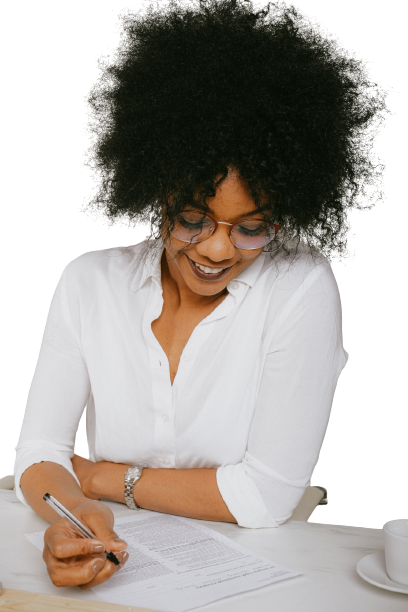
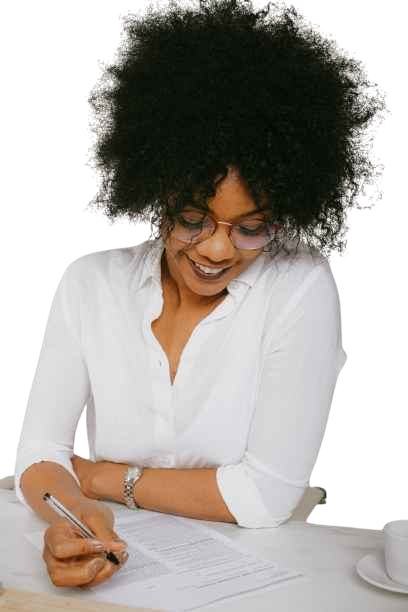
compress images

diff --git a/src/Containers/KYC/KYC.scss b/src/Containers/KYC/KYC.scss
@@ -7,7 +7,7 @@ $dark-color: #343a40;
 // Style the entire multistep form container
 .form-page{
   margin-top: -5.5rem;
-  background-image: url('./pexels-andrea-piacquadio-3762940.jpg');
+  background-image: url('./form1.jpg');
   align-items: center;
   justify-content: flex-start;
 }
@@ -18,10 +18,10 @@ $dark-color: #343a40;
 
   border: none;
   padding: 2rem;
-  background-image: url('./pexels-andrea-piacquadio-3762940.jpg');
+  background-image: url('./form1.jpg');
   @media screen and (max-width:1000px) {
     padding: 0;
-    background-image: url('./pexels-andrea-piacquadio-3762940.jpg');
+    background-image: url('./form1.jpg');
 }
 
 

diff --git a/src/Containers/KYC/index.jsx b/src/Containers/KYC/index.jsx
@@ -6,7 +6,7 @@ import { setDoc,doc, Timestamp } from 'firebase/firestore'
 import { serverTimestamp } from 'firebase/firestore';
 import { v4 as uuidv4 } from 'uuid';
 import { motion } from "framer-motion";
-import image from './pexels-polina-tankilevitch-7741615 (2).jpg'
+import image from './form2.jpg'
 import { HiCloudUpload } from 'react-icons/hi';
 import { HiXCircle } from 'react-icons/hi';
 import { Link } from 'react-router-dom';

diff --git a/src/Containers/CDD/index.jsx b/src/Containers/CDD/index.jsx
@@ -5,7 +5,7 @@ import { setDoc,doc, Timestamp } from 'firebase/firestore'
 import { serverTimestamp } from 'firebase/firestore';
 import { v4 as uuidv4 } from 'uuid';
 import { motion } from "framer-motion"
-import image from './pexels-polina-tankilevitch-7741615 (2).jpg'
+import image from './form2.jpg'
 import { HiXCircle } from 'react-icons/hi';
 import { Link } from 'react-router-dom';
 

diff --git a/src/Containers/CDD/CDD.scss b/src/Containers/CDD/CDD.scss
@@ -13,7 +13,7 @@ $dark-color: #343a40;
   justify-content: flex-start;
   height: 100vh;
   width: 100%;
-  background-image: url('./pexels-andrea-piacquadio-3762940.jpg');
+  background-image: url('./form1.jpg');
   @media screen and (max-width:1000px) {
     position:relative;
     padding-top: 2rem;
